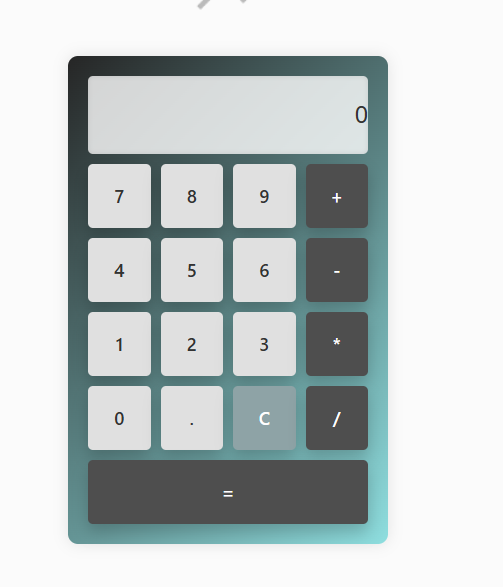
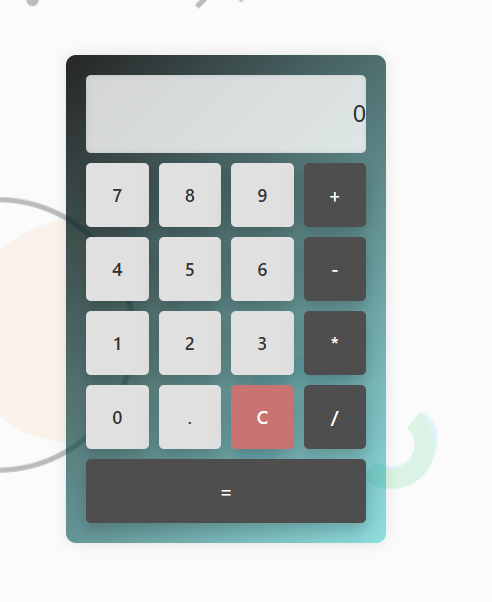
calculetor

diff --git a/src/component/Cal.jsx b/src/component/Cal.jsx
@@ -120,7 +120,7 @@ const styles = {
     transition: 'all 0.2s ease-in-out',
   },
   clearButton: {
-    backgroundColor: '#8EA3A6', 
+    backgroundColor: '#CA7373', 
     color: '#fff',
     padding: '20px',
     fontSize: '18px',
